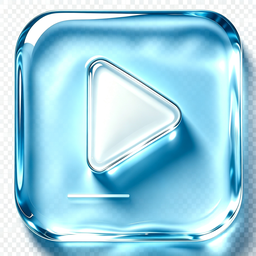
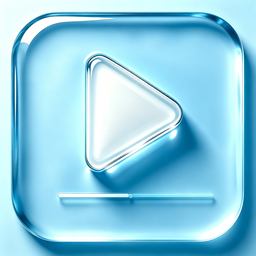
图标更新（v0.24.0）：用户重制两张 jpeg——主入口/应用中心用 Fntv-Plus.jpeg，设置入口用 Fntv-Plus-Setting.jpeg 独立图标（64/256 双档），原图归档 docs/

diff --git a/src/go/cmd/fntvplus/main.go b/src/go/cmd/fntvplus/main.go
@@ -29,7 +29,7 @@ import (
 )
 
 // appVersion 与根目录 manifest 的 version 保持一致（改动版本时两处同步）。
-const appVersion = "0.23.0"
+const appVersion = "0.24.0"
 
 func main() {
 	port := flag.String("port", envOr("TRIM_SERVICE_PORT", "22350"), "监听端口")
